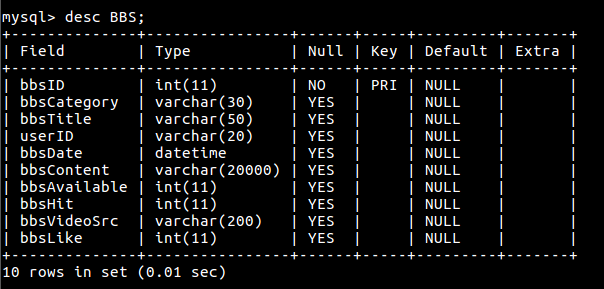
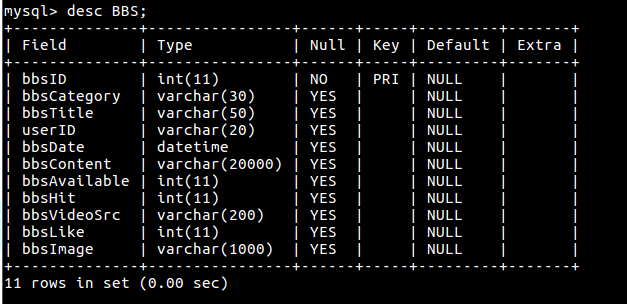
update image upload function
update database table BBS and modify write, update functions

Changed region(s): [[0.0, 0.0, 0.9536, 1.0]]

diff --git a/BBS/src/bbs/BbsDAO.java b/BBS/src/bbs/BbsDAO.java
@@ -64,8 +64,8 @@ public class BbsDAO {
 		return -1;
 	}
 
-	public int write(String bbsCategory, String bbsTitle, String userID, String bbsContent, String bbsVideoSrc){
-		String SQL = "INSERT INTO BBS VALUES (?, ?, ?, ?, ?, ?, ?, ?, ?, ?)";
+	public int write(String bbsCategory, String bbsTitle, String userID, String bbsContent, String bbsVideoSrc, String bbsImage){
+		String SQL = "INSERT INTO BBS VALUES (?, ?, ?, ?, ?, ?, ?, ?, ?, ?, ?)";
 		try{
 			PreparedStatement pstmt = conn.prepareStatement(SQL);
 			pstmt.setInt(1, getNext());
@@ -78,6 +78,7 @@ public class BbsDAO {
 			pstmt.setInt(8, 0);
 			pstmt.setString(9, bbsVideoSrc);
 			pstmt.setInt(10, 0);
+			pstmt.setString(11, bbsImage);
 			return pstmt.executeUpdate();
 		} catch(Exception e){
 			e.printStackTrace();
@@ -115,6 +116,7 @@ public class BbsDAO {
 				bbs.setBbsHit(rs.getInt(8));
 				bbs.setBbsVideoSrc(rs.getString(9));
 				bbs.setBbsLike(rs.getInt(10));
+				bbs.setBbsImage(rs.getString(11));
 				list.add(bbs);
 			}
 		} catch(Exception e){
@@ -155,6 +157,7 @@ public class BbsDAO {
 				bbs.setBbsHit(rs.getInt(8));
 				bbs.setBbsVideoSrc(rs.getString(9));
 				bbs.setBbsLike(rs.getInt(10));
+				bbs.setBbsImage(rs.getString(11));
 				return bbs;
 			}
 		}
@@ -164,15 +167,16 @@ public class BbsDAO {
 		return null;
 	}
 	
-	public int update(int bbsID, String bbsCategory, String bbsTitle, String bbsVideoSrc, String bbsContent){
-		String SQL = "UPDATE BBS SET bbsCategory = ?, bbsTitle = ?, bbsContent = ?, bbsVideoSrc = ? WHERE bbsID = ?";
+	public int update(int bbsID, String bbsCategory, String bbsTitle, String bbsContent, String bbsVideoSrc, String bbsImage){
+		String SQL = "UPDATE BBS SET bbsCategory = ?, bbsTitle = ?, bbsContent = ?, bbsVideoSrc = ?, bbsImage = ? WHERE bbsID = ?";
 		try{
 			PreparedStatement pstmt = conn.prepareStatement(SQL);
 			pstmt.setString(1, bbsCategory);
 			pstmt.setString(2, bbsTitle);
 			pstmt.setString(3, bbsContent);
 			pstmt.setString(4, bbsVideoSrc);
-			pstmt.setInt(5, bbsID);
+			pstmt.setString(5, bbsImage);
+			pstmt.setInt(6, bbsID);
 			return pstmt.executeUpdate();
 		} catch(Exception e){
 			e.printStackTrace();

diff --git a/BBS/src/bbs/Bbs.java b/BBS/src/bbs/Bbs.java
@@ -9,7 +9,14 @@ public class Bbs {
 	private String bbsContent;
 	private String bbsVideoSrc;
 	private int bbsLike;
+	private String bbsImage;
 
+	public String getBbsImage() {
+		return bbsImage;
+	}
+	public void setBbsImage(String bbsImage) {
+		this.bbsImage = bbsImage;
+	}
 	public int getBbsLike() {
 		return bbsLike;
 	}
